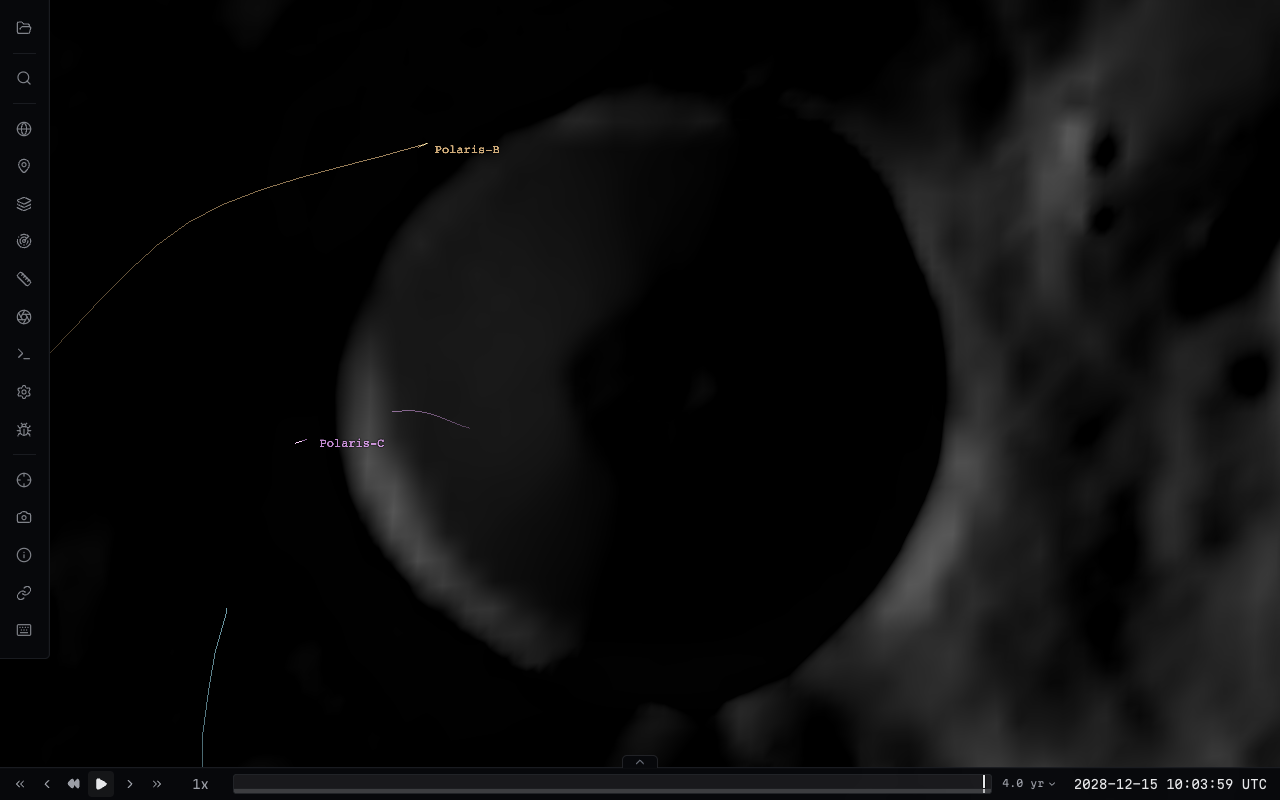
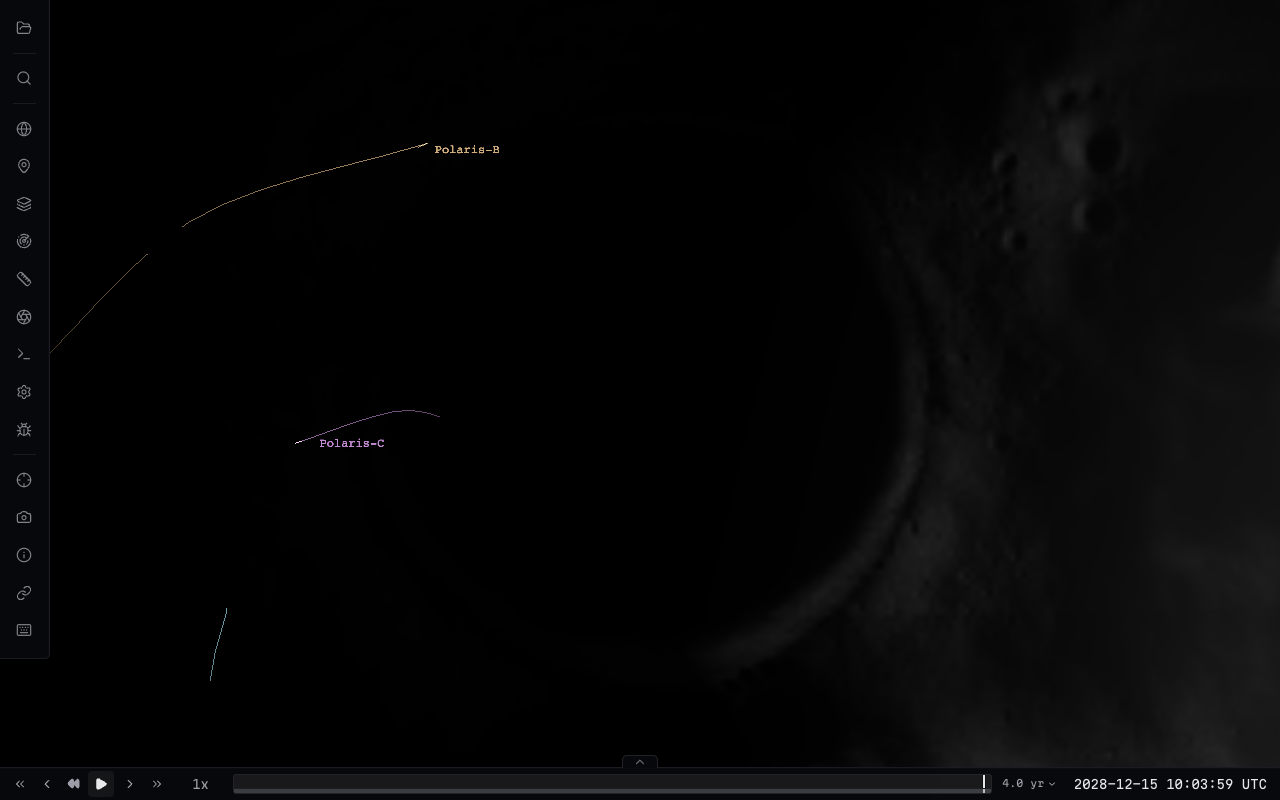
Hide surface trails when a required lunar transform is unavailable

diff --git a/packages/three/src/UniverseRenderer.ts b/packages/three/src/UniverseRenderer.ts
@@ -1043,6 +1043,7 @@ export class UniverseRenderer {
         tl.update(et, this.scaleFactor, this.absolutePositionOf, this.camera, undefined, vertOff);
       }
       } catch (err) {
+        tl.visible = false; // Missing transforms must not leave a previously oriented surface trail visible.
         console.error(`[Cosmolabe] Trail update error for ${tl.body.name}:`, err);
       }
     }

diff --git a/docs/validation/lunar-frames/README.md b/docs/validation/lunar-frames/README.md
@@ -174,7 +174,7 @@ local-product behavior. Generated work files stay outside the durable report.
 - All 20 MoonFall flight/rest arcs retain exactly the same reference radius,
   epoch, absolute-altitude flag and waypoint values as the base commit.
 - [Browser metrics](browser.json): Chrome on ANGLE Metal / **Apple M4 Max**,
-  526 hosted payload requests, no exhausted network retries, no page errors,
+  516 hosted payload requests, no exhausted network retries, no page errors,
   no GL errors. Frame orientation residuals are numerical roundoff. All three
   rendered surface picks report `MOON_ME_DE421`; imagery's required base has
   zero uncovered blocks. The polar screenshot uses an oblique eye aimed at
@@ -208,7 +208,7 @@ the selected lunar frame, rejects contradictory GeoJSON frame declarations,
 and refuses a pick from another frame. The affected importer/editing/lunar and
 terrain suites passed 144 tests; geographic-vector/place/imagery/DSK suites
 passed 92 tests. Package/test/viewer/Svelte typechecks and lint passed again.
-The hosted GPU run was repeated on the merged application: 526 payload requests,
+The hosted GPU run was repeated on the merged application: 516 payload requests,
 no network/page/GL errors, and the same 0.0077 mm rendered LRO numerical residual.
 `browser.json` and the screenshots contain this post-merge run.
 
@@ -220,3 +220,9 @@ Places/feature-navigation/editing unit suites passed 90 tests.
 
 GDAL validation also passed: `dem.py selftest`, all three
 `test_cube_ellipsoid.py` regressions, and all eleven `test_cube_xyz.py` regressions.
+
+The final missing-transform check also withholds all surface trajectory lines
+while the lunar frame is unavailable, then restores the body after recovery.
+This prevents a previously oriented trail from remaining visible through a
+transform failure. The focused lunar/plot/DSK suites passed 29 tests and full
+typechecks passed after this safeguard.
